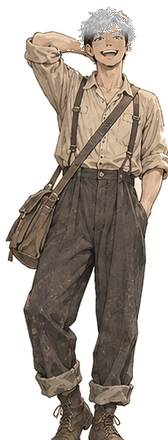
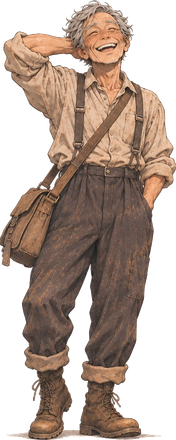
노인/마사요/메구미 새 아트, 시대 전환 단축, 아키코 선택지, 밥 피하기 점프 게임

diff --git a/prototype/src/game/story/part1.ts b/prototype/src/game/story/part1.ts
@@ -79,15 +79,11 @@ export const part1: ChapterDef[] = [
         id: 'deck',
         stage: 'deck',
         async play(s) {
-          await s.card('60년 전', '시대는 1930년대 후반', 2200)
+          await s.card('60년 전', '시대는 1930년대 후반', 1100)
           const y = s.put('yasuda', 0.3, { face: 'right', lane: 470 })
           const g = s.put('ganemura', 0.46, { face: 'left', lane: 470 })
-          await s.talk([
-            ['야스다', '이토 히로부미 대신 네가 저격 당했으면 좋겠다!'],
-            ['가네무라', '너나 저격당해라.'],
-          ])
           void Promise.all([y.shake(5, 500), g.shake(5, 500)])
-          s.caption('배 위. 붐비는 승객들. 희망을 품고 술렁거린다.', 2600)
+          void s.caption('배 위. 붐비는 승객들. 희망을 품고 술렁거린다.', 2600)
           const gs = s.enter('gangseong', 0.66, 'right', { speed: 300, lane: 478 })
           const sj = s.enter('sunju', 0.8, 'right', { speed: 300, lane: 462 })
           await Promise.all([gs, sj])
@@ -253,14 +249,36 @@ export const part1: ChapterDef[] = [
             ['야스다', '난, 혼자 사니까 이런 거 안 먹어도 돼요. 어려울 때는 서로 도와야죠.'],
             ['아키코', '(…) 고맙습니다.'],
           ])
-          s.flash(0xffe0e8, 500)
-          await s.say('', '아키코가 야스다의 손과 포장을 겹쳐 잡는다. 야스다, 당황하며 재빨리 일어난다.')
-          await s.talk([
-            ['야스다', '나, 갈게요.'],
-            ['아키코', '정말 고마워요.'],
-          ])
-          void a.hop(10, 200)
-          await y.walkTo(s.fx(-0.1), 260)
+          // Akiko steps closer, reaching for his hand — the player decides what Yasuda does
+          await s.caption('아키코가 한 걸음, 두 걸음 다가온다. 야스다의 손과 포장에 손을 뻗는다…', 1800)
+          await a.walkTo(y.x + 52, 70)
+          void a.hop(6, 200)
+          const pick = await s.choose('야스다', '(아키코의 손이 닿으려 한다!)', ['1. 가만히 있기', '2. 부끄러워서 피하기'])
+          if (pick === 0) {
+            s.flash(0xffe0e8, 500)
+            void y.shake(3, 600)
+            await s.say('', '아키코가 야스다의 손과 포장을 겹쳐 잡는다. 야스다, 얼굴이 새빨개진다…')
+            await s.talk([
+              ['야스다', '나, 나, 나 갈게요!'],
+              ['아키코', '정말 고마워요.'],
+            ])
+            void a.hop(10, 200)
+            y.face('left')
+            await y.walkTo(s.fx(-0.1), 260)
+          } else {
+            y.face('left')
+            void y.hop(26, 220)
+            await y.walkTo(y.x - 70, 360)
+            a.face('right')
+            await s.say('', '아키코의 손이 허공을 갈랐다. 야스다는 부끄러워 한 발 물러났다.')
+            await s.talk([
+              ['야스다', '아, 아니, 그게, 저는, 그, 갈게요!'],
+              ['아키코', '아… 죄, 죄송해요! 저, 저도 이만!'],
+            ])
+            void a.shake(4, 300)
+            void y.walkTo(s.fx(-0.1), 380)
+            await a.walkTo(s.fx(1.15), 330)
+          }
           s.remove('akiko')
           await s.sepia(true, 800)
           await s.talk([
@@ -294,33 +312,16 @@ export const part1: ChapterDef[] = [
           void c.hop(20, 200)
           s.shakeCam(240, 0.006)
           await s.say('청옥', '어서 와! 고생했어!')
-          await s.caption('청옥이 밥을 잔뜩 담은 그릇을 들고 튀어나온다! 서둘러 도망쳐야 한다 — 탭탭!', 2400)
-          y.flip = true
-          const startY = y.x
-          const startC = c.x
-          const p = await s.mash({
-            title: '도망쳐!',
-            hint: '탭탭탭! 밥 먹이려는 청옥에게서 도망가자',
-            seconds: 6,
-            goal: 16,
-            button: '도망!',
-            onTap: (pr) => {
-              y.x = startY - (startY - s.fx(0.1)) * pr
-              c.x = startC - (startC - s.fx(0.34)) * pr * 0.92
-              void y.hop(10, 90)
-              c.marching = true
-            },
-          })
-          c.marching = false
-          if (p < 1) {
-            await s.say('청옥', '밥은 먹고 가!')
-            await c.walkTo(y.x + 70, 400)
-            await s.say('야스다', '으억! ...잘 먹겠습니다.')
-            void y.fall(-1, 40)
-            await s.wait(900)
-          } else {
+          await y.walkTo(s.fx(0.26), 160)
+          y.face('right')
+          await s.caption('청옥이 밥그릇을 닥치는 대로 던진다! 날아오는 밥에 맞춰 점프해서 피하자!', 2600)
+          const r = await s.rice({ leader: y, thrower: c })
+          if (r.dodged >= Math.ceil(r.total / 2)) {
             await s.say('청옥', '밥은 먹고 가!!')
-            await c.walkTo(c.x + 30, 100)
+            await s.say('야스다', '안 먹어! 안 먹는다고!')
+          } else {
+            await s.say('청옥', '밥은 먹고 가!')
+            await s.say('야스다', '으억! 얼굴에 밥이... ...잘 먹었습니다.')
           }
           c.face('right')
           await s.exit('cheongok', 'right', 140)

diff --git a/prototype/src/minigames/RiceDodge.ts b/prototype/src/minigames/RiceDodge.ts
@@ -1,0 +1,109 @@
+import Phaser from 'phaser'
+import { layout, margin, RENDER_SCALE } from '../render/layout'
+import { Actor } from '../game/Actor'
+import { paintTexture } from '../scenery/paint/canvas'
+import { actionButton, onAction, popText, topPanel } from './ui'
+
+export interface RiceOpts {
+  leader: Actor
+  thrower: Actor
+  beats?: number
+}
+
+const FLIGHT_MS = 900
+
+function bowlTexture(scene: Phaser.Scene) {
+  return paintTexture(scene, 'prop-ricebowl', 40, 34, (ctx) => {
+    ctx.fillStyle = '#fffdf4'
+    ctx.beginPath()
+    ctx.ellipse(20, 14, 15, 10, 0, Math.PI, 0)
+    ctx.fill()
+    ctx.fillStyle = '#e8e2cf'
+    for (let i = 0; i < 9; i++) ctx.fillRect(9 + i * 2.6, 7 + (i % 3) * 2, 1.6, 2)
+    ctx.fillStyle = '#3d5a7a'
+    ctx.beginPath()
+    ctx.moveTo(4, 14)
+    ctx.lineTo(36, 14)
+    ctx.quadraticCurveTo(34, 31, 20, 31)
+    ctx.quadraticCurveTo(6, 31, 4, 14)
+    ctx.fill()
+    ctx.strokeStyle = '#f2ead0'
+    ctx.lineWidth = 1.6
+    ctx.beginPath()
+    ctx.moveTo(8, 19)
+    ctx.lineTo(32, 19)
+    ctx.stroke()
+  })
+}
+
+/** 청옥's rice barrage: bowls sail along the ground toward the hero; jump (tap / Space / ↑) to clear them. */
+export async function riceDodge(scene: Phaser.Scene, o: RiceOpts): Promise<{ dodged: number; total: number }> {
+  const total = o.beats ?? 7
+  const { leader, thrower } = o
+  const key = bowlTexture(scene)
+  const panel = topPanel(scene, '밥 공격 피하기!', '날아오는 밥그릇이 가까워지면 탭 → 점프!')
+  let dodged = 0
+  let busy = false
+  const jump = () => {
+    if (busy) return
+    busy = true
+    void leader.jump(116, 620).then(() => (busy = false))
+  }
+  const off = onAction(scene, jump, 400)
+  const btn = actionButton(scene, '점프! ⤒', layout.viewW / 2, layout.viewH - layout.safeB - margin() - 40 * layout.uiScale, jump)
+
+  const gaps = [1500, 1200, 1200, 900, 1100, 800, 1000, 800]
+  const jobs: Promise<void>[] = []
+  let t = 800
+  for (let i = 0; i < total; i++) {
+    jobs.push(
+      new Promise((resolve) => {
+        scene.time.delayedCall(t, () => {
+          void thrower.hop(16, 140)
+          popText(scene, thrower.x, thrower.lane - 225, i % 2 ? '먹어!' : '밥!', '#fff3b0', 22, false)
+          const bowl = scene.add.image(thrower.x - 20, thrower.lane - 70, key).setScale(1 / RENDER_SCALE).setDepth(thrower.lane + 3)
+          const dir = leader.x < thrower.x ? -1 : 1
+          const x0 = bowl.x
+          const x1 = leader.x
+          const prox = { u: 0 }
+          let judged = false
+          scene.tweens.add({
+            targets: prox,
+            u: 1.35,
+            duration: FLIGHT_MS * 1.35,
+            ease: 'Linear',
+            onUpdate: () => {
+              bowl.x = x0 + (x1 - x0) * prox.u
+              bowl.y = thrower.lane - 70 + Math.sin(Math.PI * Math.min(1, prox.u)) * -34 + Math.min(1, prox.u) * 60
+              bowl.rotation = prox.u * 12 * -dir
+              if (!judged && prox.u >= 1) {
+                judged = true
+                if (leader.offY < -34) {
+                  dodged++
+                  popText(scene, leader.x, leader.lane - 225, '피했다!', '#b8f5b0', 22, false)
+                } else {
+                  popText(scene, leader.x, leader.lane - 225, '철퍼덕!', '#ffb0a8', 24, false)
+                  scene.cameras.main.shake(120, 0.005)
+                  leader.tint(0xfff2c8)
+                  scene.time.delayedCall(350, () => leader.tint(0xffffff))
+                  void leader.shake(6, 400)
+                }
+              }
+            },
+            onComplete: () => {
+              bowl.destroy()
+              resolve()
+            },
+          })
+        })
+      }),
+    )
+    t += gaps[i % gaps.length]
+  }
+  await Promise.all(jobs)
+  await new Promise((r) => scene.time.delayedCall(500, () => r(null)))
+  off()
+  btn.destroy()
+  panel.destroy()
+  return { dodged, total }
+}

diff --git a/prototype/src/scenes/TitleScene.ts b/prototype/src/scenes/TitleScene.ts
@@ -9,12 +9,14 @@ import { buildHarborBackdrop } from '../scenery/HarborBackdrop'
 import { Button, touchMin } from '../ui/Button'
 
 const LINEUP: [ActorId, number][] = [
-  ['yasuda', 0.12],
-  ['ganemura', 0.24],
-  ['gangseong', 0.36],
-  ['sunju', 0.48],
-  ['akiko', 0.6],
-  ['cheongok', 0.72],
+  ['yasuda', 0.06],
+  ['ganemura', 0.17],
+  ['gangseong', 0.28],
+  ['sunju', 0.39],
+  ['akiko', 0.5],
+  ['masayo', 0.61],
+  ['megumi', 0.72],
+  ['cheongok', 0.83],
 ]
 
 export class TitleScene extends Phaser.Scene {
@@ -56,8 +58,8 @@ export class TitleScene extends Phaser.Scene {
     buildHarborBackdrop(this, 'morning')
 
     for (const [id, f] of LINEUP) {
-      const a = new Actor(this, ACTORS[id], Math.round(layout.viewW * (layout.portrait ? 0.1 + f * 0.9 : 0.03 + f * 0.7)), FEET_Y + (id === 'cheongok' ? 24 : 0))
-      a.face(f > 0.4 ? 'left' : 'right')
+      const a = new Actor(this, ACTORS[id], Math.round(layout.viewW * (layout.portrait ? 0.08 + f * 0.88 : 0.03 + f * 0.64)), FEET_Y + (id === 'cheongok' ? 24 : id === 'masayo' ? 14 : id === 'megumi' ? -8 : 0))
+      a.face(f > 0.45 ? 'left' : 'right')
       a.setLabelVisible(false)
       this.actors.push(a)
     }

diff --git a/prototype/src/game/actors.ts b/prototype/src/game/actors.ts
@@ -39,10 +39,10 @@ export interface ActorDef {
 
 export const ACTORS: Record<ActorId, ActorDef> = {
   yasuda: { id: 'yasuda', name: '야스다', art: yasudaArt, color: '#ffe9b3' },
-  yasudaOld: { id: 'yasudaOld', name: '야스다(노)', art: yasudaOldArt, color: '#d9d2c2', hunch: 0.07, height: 0.97 },
+  yasudaOld: { id: 'yasudaOld', name: '야스다(노)', art: yasudaOldArt, color: '#d9d2c2' },
   yasudaArmy: { id: 'yasudaArmy', name: '야스다', art: yasudaArmyArt, color: '#d5e3a4' },
   ganemura: { id: 'ganemura', name: '가네무라', art: ganemuraArt, color: '#b7e6b2' },
-  ganemuraOld: { id: 'ganemuraOld', name: '가네무라(노)', art: ganemuraOldArt, color: '#d9d2c2', hunch: 0.07, height: 0.97 },
+  ganemuraOld: { id: 'ganemuraOld', name: '가네무라(노)', art: ganemuraOldArt, color: '#d9d2c2' },
   gangseong: { id: 'gangseong', name: '강성', art: gangseongArt, color: '#c7cbe8' },
   sunju: { id: 'sunju', name: '순주', art: sunjuArt, color: '#ead9b0' },
   cheongok: { id: 'cheongok', name: '청옥', art: cheongokArt, color: '#ff9b9b' },

diff --git a/prototype/src/game/ChapterScene.ts b/prototype/src/game/ChapterScene.ts
@@ -13,6 +13,7 @@ import { buildStage } from './stages'
 import { drumChallenge, type DrumOpts } from '../minigames/DrumChallenge'
 import { timingBar, type TimingOpts } from '../minigames/TimingBar'
 import { tapMash, type MashOpts } from '../minigames/TapMash'
+import { riceDodge, type RiceOpts } from '../minigames/RiceDodge'
 
 const CARD_DEPTH = 1500
 const MENU_DEPTH = 1400
@@ -375,6 +376,9 @@ export class ChapterScene extends Phaser.Scene {
 
   drum(o: DrumOpts) {
     return drumChallenge(this, o)
+  }
+  rice(o: RiceOpts) {
+    return riceDodge(this, o)
   }
   timing(o: TimingOpts) {
     return timingBar(this, o)

diff --git a/prototype/tools/extract_white.py b/prototype/tools/extract_white.py
@@ -1,0 +1,48 @@
+"""Cut figures out of white-background character sheets.
+
+    python3 tools/extract_white.py <image> <out_dir> name1,name2[,...]   (figures left→right)
+"""
+import sys
+import numpy as np
+from PIL import Image
+from scipy import ndimage
+
+src, out, names = sys.argv[1], sys.argv[2], sys.argv[3].split(',')
+TARGET_H = 440
+im = np.asarray(Image.open(src).convert('RGB')).astype(np.float32)
+d = np.linalg.norm(im - 255, axis=2)
+fg = d > 22
+fg = ndimage.binary_closing(fg, iterations=2)
+# split into len(names) columns at the widest empty vertical gaps
+cols = fg.sum(axis=0) > 0
+runs, start = [], None
+for x, v in enumerate(cols):
+    if v and start is None: start = x
+    if not v and start is not None: runs.append([start, x]); start = None
+if start is not None: runs.append([start, len(cols)])
+# merge runs until we have len(names)
+while len(runs) > len(names):
+    gaps = [runs[i + 1][0] - runs[i][1] for i in range(len(runs) - 1)]
+    i = int(np.argmin(gaps)); runs[i] = [runs[i][0], runs[i + 1][1]]; del runs[i + 1]
+print(runs)
+for name, (x0, x1) in zip(names, runs):
+    crop = im[:, x0:x1]
+    dist = d[:, x0:x1]
+    solid = dist > 22
+    # keep the largest blob, fill holes inside the silhouette
+    lab, n = ndimage.label(ndimage.binary_closing(solid, iterations=3), structure=np.ones((3, 3)))
+    sizes = ndimage.sum(solid, lab, range(1, n + 1))
+    body = lab == (1 + int(np.argmax(sizes)))
+    body = ndimage.binary_dilation(body, iterations=1)
+    alpha = np.clip((dist - 10) / 40.0, 0, 1) * body
+    # decontaminate the white fringe on semi-transparent edge pixels
+    a = np.clip(alpha, 1e-3, 1)[..., None]
+    rgb = np.where(alpha[..., None] < 1, np.clip((crop - 255 * (1 - a)) / a, 0, 255), crop)
+    rgba = np.dstack([rgb, alpha * 255]).astype(np.uint8)
+    ys, xs = np.where(alpha > 0.05)
+    rgba = rgba[ys.min():ys.max() + 1, xs.min():xs.max() + 1]
+    img = Image.fromarray(rgba, 'RGBA')
+    w = round(img.width * TARGET_H / img.height)
+    img = img.convert('RGBa').resize((w, TARGET_H), Image.LANCZOS).convert('RGBA')
+    img.save(f'{out}/{name}.png', optimize=True)
+    print(name, img.size)

diff --git a/prototype/README.md b/prototype/README.md
@@ -17,8 +17,8 @@ npm run build    # tsc + vite build → dist/
 |---|---|---|
 | 1 | 노인들의 부두 (1990년대) | 야스다·가네무라 노인 → **실랑이(탭 연타)**로 싸움 자세 → 시대 전환 |
 | 2 | 대판이다, 대판! (1930년대 후반) | 배 위 → 부두에서 청옥 등장 → **북 리듬 점프** → 오사카 질주 |
-| 3 | 오십 전 아저씨 (1940년대) | 야스다–아키코 → **가격 흥정(타이밍 바)** |
-| 4 | 밥은 먹고 가! | 청옥에게서 **도망(연타)** → 순주 등장 |
+| 3 | 오십 전 아저씨 (1940년대) | 야스다–아키코 → **가격 흥정(타이밍 바)** → 아키코가 다가오는 **선택지(가만히/피하기)** |
+| 4 | 밥은 먹고 가! | 날아오는 밥그릇을 **점프로 피하기** → 순주 등장 |
 | 5 | 괴물과 결혼?! | 가네무라·강성과 대화 → 청옥 재등장 → **분노의 북** |
 | 6 | 닭꼬끼 아저씨 | 아키코·마사요·메구미 등장 → 선택지 → **크게 화답(연타)** |
 | 7 | 술 한잔 | 청옥의 집 → **술 따르기(타이밍 바)** → 청옥의 포옹 |
